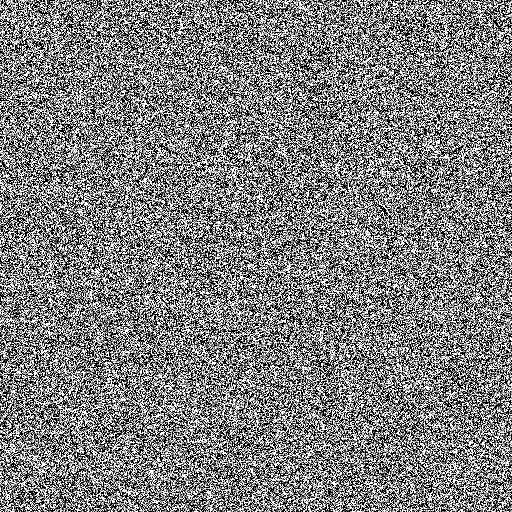
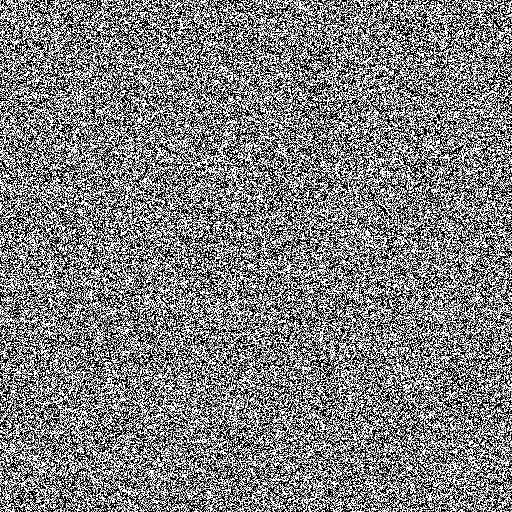
Korn Retina-scharf: 256px-Darstellung, Kontrast 2.2, Deckkraft .04
512er-Kachel bei 512px CSS-Groesse wurde auf Retina auf 2x2
Geraetepixel aufgeblasen — matschig und zu praesent. Jetzt 256px:
ein Rauschkorn = ein Geraetepixel. Deckkraft auf das gemessene
ESE-Niveau (0.04), Kachelkontrast dafuer auf 2.2 angehoben.

Changed region(s): [[0.0, 0.0, 1.0, 1.0]]

diff --git a/app/globals.css b/app/globals.css
@@ -439,7 +439,10 @@ html.menue-offen .nav__menue{ opacity:0; pointer-events:none; }
 body::after{
   content:""; position:fixed; inset:-12%; z-index:70; pointer-events:none;
   background-image:url("/grain-fein.png"); background-repeat:repeat;
-  background-size:512px 512px; opacity:.055;
+  /* 512er-Kachel auf 256px dargestellt: Auf Retina (2x) trifft so EIN
+     Rauschkorn EXAKT EIN Gerätepixel — scharf statt aufgeblasen-matschig.
+     Deckkraft wie bei ESE gemessen (0.04). */
+  background-size:256px 256px; opacity:.04;
 }
 @media (min-width:900px){
   body::after{ animation:kornflimmern .9s steps(1) infinite; }

diff --git a/scripts/make-grain.py b/scripts/make-grain.py
@@ -13,7 +13,7 @@ import random
 from PIL import Image
 
 SIZE = 512
-KONTRAST = 1.6          # 1.0 = neutral; >1 drueckt Richtung Schwarz/Weiss
+KONTRAST = 2.2          # hart Richtung Speckle - noetig bei 4% Deckkraft
 SEED = 20260805
 
 random.seed(SEED)
